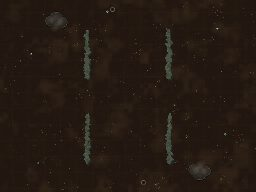
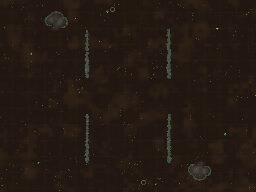
M9 climbs a cliffside: switchback trail, three shelters, wheeling screechers
Mission terrain overlays, plateau rim slabs v2, TDZ crash fix, ridge collision
honesty, darker dead trees, survivor plot-toughness.

diff --git a/game.js b/game.js
@@ -1446,12 +1446,31 @@ const MISSIONS = [
     // emptiness IS the mission's texture).
     title: 'The Silence', act: 'Act II — The Awakening',
     allow: { bld: [], unit: [] },
-    map: 'boneyard', diff: 'normal', noEnemy: true, noBase: true, start: [2304, 3150],
+    map: 'boneyard', diff: 'normal', noEnemy: true, noBase: true, start: [3950, 3120],
     fields: [
       { p: [W * 0.16, H * 0.5], n: 8, a: 2600 },
       { p: [W * 0.84, H * 0.5], n: 8, a: 2600 },
       { p: [W / 2, H / 2], n: 12, a: 3400 },
     ],
+    // THE CLIFFSIDE TRAIL (2026-08-04, Bronson: "a windy, long cliff with a
+    // few extra dinos and some rocks/dead things to navigate around"): the
+    // squad lands in the SE corner and climbs a walled switchback — west
+    // along the bluff foot, then a hairpin northeast to the center gate. The
+    // side gates are ridge-plugged for the mission, so the trail and the gate
+    // are the ONLY way in — and the only way back out with the survivors.
+    terrain: {
+      ridges: [
+        [4560, 3000, 1750, 2950, 55],   // leg-1 north bluff — runs to the map edge
+        [4400, 3400, 3600, 3390, 45],   // stub wall behind the LZ
+        [1750, 3260, 2650, 2500, 55],   // leg-2 south-east wall (hairpin outer)
+        [1150, 2950, 1950, 2280, 55],   // leg-2 north-west wall (hairpin inner)
+        [80, 2150, 1250, 2260, 55],     // west gate plug — full span to the edge
+        [3400, 2100, 4530, 2330, 55],   // east gate plug — full span to the edge
+      ],
+      bones: [[2200, 3150, 60, 0.4], [1900, 2850, 55, -0.7], [2450, 2620, 45, 1.1]],
+      boulders: [[3300, 3120, 30], [2900, 3040, 26], [1550, 3120, 32], [2100, 2560, 28], [1750, 2700, 24]],
+      pits: [[2700, 2980, 34]],
+    },
     brief: [
       ['red', 'Expedition command, Rubicon Actual. Outpost K-7 stopped reporting eleven hours ago. Mid-sentence, mid-word. I have nobody spare to send, and I am… asking.'],
       ['ops', 'A Rubicon outpost going dark is his problem — except K-7 sits square on our northern survey line, and whatever silenced forty-one people is now between us and the fen.'],
@@ -1462,20 +1481,40 @@ const MISSIONS = [
     intro: [
       ['ops', 'K-7 is due north through the wall gates. Comms silence the whole way — assume nothing about why.'],
     ],
+    // PACING REWORK (2026-08-04, Bronson finished v1 in 3 minutes: "absolutely
+    // unacceptable"): the three survivors now hole up in three SEPARATE
+    // shelters across the camp's full width — the sweep is the mission.
+    // Raptor packs prowl the streets (the things that cleared K-7 never left),
+    // screechers pressure the whole run, and collecting the third survivor
+    // raises the flock. Target: 12-15 minutes.
     objectives: [
       { id: 'camp',    text: 'Push north into the silent outpost', type: 'reach', x: 2304, y: 930, r: 300 },
-      { id: 'bunker',  text: 'Reach the command bunker', type: 'reach', x: 2304, y: 300, r: 180, hidden: true, mark: [2304, 300] },
-      { id: 'extract', text: 'Get all three survivors to the extraction point', type: 'groupReach', group: 'survivors', x: 2304, y: 3225, r: 220, count: 3, hidden: true, mark: [2304, 3225] },
+      { id: 'west',    text: 'Search the vehicle bay for survivors', type: 'reach', x: 1704, y: 360, r: 170, hidden: true, mark: [1704, 360] },
+      { id: 'bunker',  text: 'Search the command bunker', type: 'reach', x: 2304, y: 300, r: 170, hidden: true, mark: [2304, 300] },
+      { id: 'east',    text: 'Search the refinery works', type: 'reach', x: 2634, y: 450, r: 170, hidden: true, mark: [2634, 450] },
+      // any three living engineers count — they ARE the only engineers here
+      { id: 'extract', text: 'Get all three survivors back down the trail to the LZ', type: 'groupReach', unit: 'engineer', x: 3950, y: 3180, r: 220, count: 3, hidden: true, mark: [3950, 3180] },
     ],
-    winWhen: ['camp', 'bunker', 'extract'],
+    winWhen: ['camp', 'west', 'bunker', 'east', 'extract'],
     triggers: [
       { when: { time: 0.5 },
         spawn: [
-          { group: 'boone', unit: 'commando', team: 1, n: 1, at: [2304, 3150] },
-          { group: 'squad', unit: 'marine', team: 1, n: 5, at: [2304, 3225] },
-          { group: 'squad', unit: 'rocket', team: 1, n: 2, at: [2205, 3285] },
-          { group: 'squad', unit: 'sniper', team: 1, n: 1, at: [2400, 3285] },
-          { group: 'squad', unit: 'medic',  team: 1, n: 1, at: [2304, 3345] },
+          { group: 'boone', unit: 'commando', team: 1, n: 1, at: [3950, 3060] },
+          { group: 'squad', unit: 'marine', team: 1, n: 6, at: [3950, 3140] },
+          { group: 'squad', unit: 'rocket', team: 1, n: 3, at: [3860, 3200] },
+          { group: 'squad', unit: 'sniper', team: 1, n: 1, at: [4040, 3200] },
+          { group: 'squad', unit: 'medic',  team: 1, n: 2, at: [3950, 3260] },
+          // the trail has tenants: a spitter post at the hairpin, a raptor
+          // pack mid-climb, a picket at the trail mouth into the camp gate
+          { unit: 'spitter', team: 3, n: 2, at: [1500, 3080], order: 'guard' },
+          { unit: 'raptor',  team: 3, n: 2, at: [2080, 2660], order: 'guard' },
+          { unit: 'spitter', team: 3, n: 2, at: [2350, 2300], order: 'guard' },
+          // the things that cleared K-7 are still IN it: raptor packs hold
+          // the streets, spitters squat the flanks — guards, visible, real
+          { unit: 'raptor',  team: 3, n: 3, at: [2154, 525],  order: 'guard' },
+          { unit: 'raptor',  team: 3, n: 2, at: [2504, 675],  order: 'guard' },
+          { unit: 'spitter', team: 3, n: 2, at: [1854, 720],  order: 'guard' },
+          { unit: 'spitter', team: 3, n: 2, at: [2754, 600],  order: 'guard' },
           // K-7, standing and broken — the guns went first, so there are none
           { bld: 'hq',       team: 2, at: [2304, 300],  hpFrac: 0.18 },
           { bld: 'barracks', team: 2, at: [2004, 210],  hpFrac: 0.30 },
@@ -1492,39 +1531,73 @@ const MISSIONS = [
           { egg: [2070, 720] }, { egg: [2475, 570] }, { egg: [2340, 780] },
           { egg: [1950, 330] }, { egg: [2550, 270] },
         ] },
-      { when: { near: [2304, 2250, 420] },
-        say: [['sci', 'No birds. No grazers. The bone flats are never this quiet — everything that could leave already left.']] },
-      { when: { done: ['camp'] }, objective: 'bunker',
+      { when: { near: [3300, 2960, 380] },
+        say: [['sci', 'No birds. No grazers. The bone flats are never this quiet — everything that could leave already left.'],
+              ['cdo', 'Single file on the trail. Eyes up.']] },
+      { when: { done: ['camp'] }, objective: ['west', 'bunker', 'east'],
         say: [['sci', 'There are eggs in the streets, Commander. Laid in the OPEN, between the buildings. Whatever nested here was not afraid of anything.'],
               ['red', 'K-7 had forty-one people on shift, expedition. Keep moving.'],
+              ['ops', 'Thermal shows three sealed shelters still holding heat — the vehicle bay, the command bunker, the refinery works. Sweep all three.'],
               ['cdo', 'Eggs in the street means the street is theirs. Keep walking.']] },
       // first contact — the sky lanes between the walls belong to something new
       { when: { near: [2304, 645, 390] },
         alarm: '⚠ Airborne contacts!',
         spawn: [
-          { unit: 'screecher', team: 3, n: 1, at: [1950, 90], to: [2304, 645] },
+          { unit: 'screecher', team: 3, n: 2, at: [1950, 90], to: [2304, 645] },
           { unit: 'screecher', team: 3, n: 1, at: [2625, 90], to: [2304, 645] },
         ],
         say: [['sci', 'CONTACT — airborne, repeat, AIRBORNE. That is not a spitter. That is not anything we have on file!'],
               ['cdo', 'Rockets up. Watch the lanes.']] },
-      { when: { done: ['bunker'] }, objective: 'extract',
+      // the sky pressures the WHOLE mission, not just the walk home
+      { when: { time: 110, notDone: ['extract'] }, repeat: true, every: 80,
+        spawn: { unit: 'screecher', team: 3, n: 2, at: [2900, 90], to: [2304, 1650] } },
+      // each shelter opens to one survivor — and the sky answers each time
+      { when: { done: ['west'] },
         spawn: [
-          { group: 'survivors', unit: 'engineer', team: 1, n: 3, at: [2304, 390] },
+          { group: 's1', unit: 'engineer', team: 1, n: 1, at: [1704, 420], hpMul: 2 },
+          { unit: 'screecher', team: 3, n: 2, at: [1350, 60], to: [1704, 390] },
         ],
-        say: [['ops', 'Three heartbeats in the command bunker — his engineers welded the door and waited. Good instinct.'],
-              ['red', '…Three. Out of forty-one. Get them home, Commander, and Rubicon will remember it. That is not a small sentence from me.'],
-              ['sci', 'The weld held because the things outside stopped trying after the first night. They were not hungry, Commander. They were clearing ground.']] },
-      { when: { done: ['bunker'] }, delay: 6, alarm: '⚠ Wings inbound from the north!',
-        spawn: { unit: 'screecher', team: 3, n: 3, at: [2304, 60], to: [2304, 525] },
-        say: [['ops', 'They know you have them. Run the gauntlet, Commander — south, and do not stop.']] },
-      { when: { done: ['bunker'], notDone: ['extract'] }, delay: 25, repeat: true, every: 55,
-        spawn: { unit: 'screecher', team: 3, n: 2, at: [2100, 90], to: [2304, 2850] } },
-      { when: { done: ['bunker'], notDone: ['extract'] }, delay: 60, repeat: true, every: 75,
-        spawn: { unit: 'screecher', team: 3, n: 2, at: [3750, 450], to: [2475, 2400] } },
+        say: [['ops', 'One heartbeat in the vehicle bay — dehydrated, alive, and not talking yet. Two shelters left.']] },
+      { when: { done: ['bunker'] },
+        spawn: [
+          { group: 's2', unit: 'engineer', team: 1, n: 1, at: [2304, 360], hpMul: 2 },
+          { unit: 'screecher', team: 3, n: 2, at: [2304, 45], to: [2304, 340] },
+        ],
+        say: [['sci', 'The bunker door was welded from the INSIDE — and the things out here stopped trying after the first night. They were not hungry, Commander. They were clearing ground.']] },
+      { when: { done: ['east'] },
+        spawn: [
+          { group: 's3', unit: 'engineer', team: 1, n: 1, at: [2634, 510], hpMul: 2 },
+          { unit: 'screecher', team: 3, n: 2, at: [2950, 60], to: [2634, 480] },
+        ],
+        say: [['red', 'Refinery crew chief. Good man. That is three of my people breathing because of yours, expedition.']] },
+      // the third rescue raises the FLOCK — and something closes the gate
+      { when: { done: ['west', 'bunker', 'east'] }, objective: 'extract',
+        alarm: '⚠ The flock is rising — get south NOW!',
+        spawn: [
+          { unit: 'screecher', team: 3, n: 3, at: [2000, 45], to: [2304, 700] },
+          { unit: 'screecher', team: 3, n: 3, at: [2650, 45], to: [2304, 900] },
+          { unit: 'raptor',    team: 3, n: 3, at: [2304, 1470], order: 'guard' },
+        ],
+        say: [['red', '…Three. Out of forty-one. Get them home, Commander, and Rubicon will remember it. That is not a small sentence from me.'],
+              ['ops', 'The whole northern sky just lifted off the roosts. They know you have them — south, and do not stop for anything.']] },
+      // the long walk home, contested the whole way, from both flanks
+      { when: { done: ['west', 'bunker', 'east'], notDone: ['extract'] }, delay: 25, repeat: true, every: 50,
+        spawn: { unit: 'screecher', team: 3, n: 2, at: [2100, 90], to: [2400, 2560] } },
+      { when: { done: ['west', 'bunker', 'east'], notDone: ['extract'] }, delay: 45, repeat: true, every: 70,
+        spawn: { unit: 'screecher', team: 3, n: 2, at: [3750, 450], to: [3200, 3000] } },
+      { when: { done: ['west', 'bunker', 'east'], notDone: ['extract'] }, delay: 70, repeat: true, every: 95,
+        spawn: { unit: 'raptor', team: 3, n: 2, at: [1554, 1770], to: [1700, 3050] } },
+      // the LZ itself is contested — clear it and hold for the transport
+      { when: { near: [3400, 2980, 320], done: ['west', 'bunker', 'east'] },
+        alarm: '⚠ Wings over the extraction point!',
+        spawn: { unit: 'screecher', team: 3, n: 4, at: [4300, 2800], to: [3950, 3180] },
+        say: [['ops', 'Wings on the LZ — clear the air and hold for the transport!']] },
       // the squad is small and the survivors are the mission — and Lighthouse
       // does not get left in the silence
-      { when: { groupBelow: ['squad', 2] }, lose: true },
-      { when: { groupBelow: ['survivors', 3] }, lose: true },
+      { when: { groupBelow: ['squad', 3] }, lose: true },
+      { when: { groupBelow: ['s1', 1] }, lose: true },
+      { when: { groupBelow: ['s2', 1] }, lose: true },
+      { when: { groupBelow: ['s3', 1] }, lose: true },
       { when: { groupBelow: ['boone', 1] }, lose: true },
     ],
     outro: [
@@ -2476,10 +2549,20 @@ function placeBase(team, M) {
   return hq;
 }
 
+// TDZ-safe mission read: the cold-load art-repaint path can call paintGround
+// before `let mission` (declared much later in the file) has initialized —
+// a bare reference there killed the WHOLE script once (2026-08-04).
+function missionNow() { try { return mission; } catch (e) { return null; } }
 function setup(mapKey) {
   const M = MAPS[mapKey] || MAPS.basin;
+  // mission terrain OVERLAYS (2026-08-04, for M9's cliffside trail): a mission
+  // may carry `terrain: {ridges, boulders, bones, pits, vents}` that appends
+  // to its map's own — skirmish on the shared map never sees them. Same
+  // pattern as the mission `fields` override, additive instead of replacing.
+  const mt = (missionNow() && missionNow().terrain) || {};
+  const T = (k) => (M[k] || []).concat(mt[k] || []);
   // terrain first, so the ground pre-render includes it
-  for (const rg of (M.ridges || [])) {
+  for (const rg of T('ridges')) {
     const [x1, y1, x2, y2, r] = rg;
     const n = Math.max(1, Math.round(dist(x1, y1, x2, y2) / (r * 1.1)));
     for (let i = 0; i <= n; i++) {
@@ -2493,8 +2576,8 @@ function setup(mapKey) {
   // fire vents (2026-08-04): burning ground — passable, but ground units
   // inside take VENT_DMG per tick. The level-design "soft wall": the shortcut
   // you may take and pay for, vs cliffs/water you simply can't cross.
-  for (const [vx, vy, vr] of (M.vents || [])) vents.push({ x: vx, y: vy, r: vr });
-  for (const [bx, by, br] of (M.boulders || [])) rocks.push({ x: bx, y: by, r: br });
+  for (const [vx, vy, vr] of T('vents')) vents.push({ x: vx, y: vy, r: vr });
+  for (const [bx, by, br] of T('boulders')) rocks.push({ x: bx, y: by, r: br });
   // water channels (2026-07-25, Blackwater Fen onward): chained circle
   // colliders on the ridge machinery — ground units can't cross, flyers
   // ignore rocks so they soar straight over. Gaps between river segments are
@@ -2523,8 +2606,8 @@ function setup(mapKey) {
   // obstacle variety beyond rock walls (playtest 2026-07-24): crystalline
   // spires, buried ribcages, sinkholes — all rocks mechanically, distinct art
   for (const [sx, sy, sr] of (M.spires || [])) rocks.push({ x: sx, y: sy, r: sr, spire: true });
-  for (const [bx, by, br, ba] of (M.bones || [])) rocks.push({ x: bx, y: by, r: br, bone: true, a: ba || 0 });
-  for (const [px, py, pr] of (M.pits || [])) rocks.push({ x: px, y: py, r: pr, pit: true });
+  for (const [bx, by, br, ba] of T('bones')) rocks.push({ x: bx, y: by, r: br, bone: true, a: ba || 0 });
+  for (const [px, py, pr] of T('pits')) rocks.push({ x: px, y: py, r: pr, pit: true });
   // plateaus: raise the interior tiles, then grow the cliff rim as a chain of
   // slab rocks — ramps leave gaps, the only ground route up
   elev.fill(0);
@@ -3489,7 +3572,22 @@ function updateUnit(u) {
       }
       const d = dist(u.x, u.y, t.x, t.y) - (t.r || 0);
       if (d > u.range) moveToward(u, t.x, t.y);
-      else {
+      else if (u.type === 'screecher') {
+        // a bird doesn't hover — it WHEELS (2026-08-04, Bronson): circle the
+        // prey on a banking orbit inside weapon range, spitting on the pass.
+        // Orbit direction is fixed per bird so a wing splits both ways.
+        u.orbitDir = u.orbitDir || (u.id % 2 ? 1 : -1);
+        const cd = Math.max(40, dist(u.x, u.y, t.x, t.y));
+        const oa = Math.atan2(u.y - t.y, u.x - t.x) + u.orbitDir * (u.speed * 1.6 / cd);
+        const orad = u.range * (0.72 + 0.18 * Math.sin(tick * 0.025 + u.id * 1.7));
+        const gx = t.x + Math.cos(oa) * orad, gy = t.y + Math.sin(oa) * orad;
+        const gd = Math.hypot(gx - u.x, gy - u.y) || 1;
+        u.faceA = Math.atan2(gy - u.y, gx - u.x);
+        u.x += (gx - u.x) / gd * Math.min(u.speed, gd);
+        u.y += (gy - u.y) / gd * Math.min(u.speed, gd);
+        u.moving = true; u.walkT += u.speed;   // keeps the flap cycle beating
+        if (u.cool <= 0) fire(u, t);
+      } else {
         u.faceA = Math.atan2(t.y - u.y, t.x - u.x);
         // artillery has a dead zone — anything that closes inside minRange is safe from it
         const min = UNIT[u.type].minRange;
@@ -3830,7 +3928,7 @@ function separation() {
       // makes blowing a dam under a crossing column lethal instead of a shove.
       if (rk.water && aFoot && dist2(a.x, a.y, rk.x, rk.y) < Math.max(0, rk.r - a.r) ** 2) continue;
       if (rk.bridged && aFoot) continue;   // dam walkway — infantry and dinos cross
-      if (a.ghostT > 0 && !rk.cliff && !rk.water) continue;   // ghosts slip pinch rocks — never cliffs OR open water
+      if (a.ghostT > 0 && !rk.cliff && !rk.water && !rk.ridge) continue;   // ghosts slip pinch rocks — never cliffs, water, or ridge walls
       const dx = a.x - rk.x, dy = a.y - rk.y;
       const min = rk.r + a.r;
       if (Math.abs(dx) > min || Math.abs(dy) > min) continue;
@@ -5215,18 +5313,22 @@ function paintRidges(g, M) {
       const t = Math.min(1, d / L);
       const tH = highAtEnd ? t : 1 - t;
       const hFac = 0.35 + tH * tH * 0.95;               // quadratic climb — the head looms
-      const off = (hn(seed, i) - 0.5) * r * (0.45 + 0.6 * hn(seed + 1, i));
+      // visuals stay INSIDE the collision envelope (2026-08-04, Bronson's
+      // screenshot: units "standing on" painted rock that had no collider
+      // under it) — scatter and slab reach are capped so the painted wall
+      // never outruns the physical one
+      const off = (hn(seed, i) - 0.5) * r * 0.35;
       const cxx = x1 + (x2 - x1) * t + nx * off;
       const cyy = y1 + (y2 - y1) * t + ny * off;
-      const sr = r * (0.5 + hn(seed + 2, i) * 0.5 + tH * 0.45);
+      const sr = r * (0.5 + hn(seed + 2, i) * 0.32 + tH * 0.25);
       const rot = hn(seed + 4, i) * Math.PI * 2;
       const vn = 5 + Math.floor(hn(seed + 5, i) * 4);   // 5-8 verts: blocky to shard
       const spike = Math.floor(hn(seed + 7, i) * vn);   // one vertex juts
       const verts = [];
       for (let k = 0; k < vn; k++) {
         const va = rot + (k / vn) * Math.PI * 2 + (hn(seed + 6, i * 13 + k) - 0.5) * 0.5;
-        let vr = sr * (0.58 + hn(seed + 8, i * 17 + k) * 0.55);
-        if (k === spike) vr *= 1.45;
+        let vr = sr * (0.58 + hn(seed + 8, i * 17 + k) * 0.5);
+        if (k === spike) vr *= 1.22;
         verts.push([cxx + Math.cos(va) * vr, cyy + Math.sin(va) * vr]);
       }
       slabs.push({ cx: cxx, cy: cyy, sr, verts, i, hFac });
@@ -5245,14 +5347,15 @@ function paintRidges(g, M) {
       poly(s.verts, 6 + 10 * s.hFac, 9 + 15 * s.hFac); g.fill();
     }
     // pass 2: the cliff FACES — extrusion depth follows the height gradient,
-    // so the low tail hugs the ground and the head stands off it
+    // so the low tail hugs the ground and the head stands off it (depths
+    // halved 2026-08-04: a face reaching far downhill read as standable top)
     for (const s of slabs) {
       g.fillStyle = '#1c211b';
-      poly(s.verts, s.sr * (0.16 + 0.34 * s.hFac), s.sr * (0.22 + 0.46 * s.hFac)); g.fill();
+      poly(s.verts, s.sr * (0.10 + 0.20 * s.hFac), s.sr * (0.13 + 0.27 * s.hFac)); g.fill();
     }
     for (const s of slabs) {
       g.fillStyle = '#272d26';
-      poly(s.verts, s.sr * (0.09 + 0.17 * s.hFac), s.sr * (0.12 + 0.23 * s.hFac)); g.fill();
+      poly(s.verts, s.sr * (0.05 + 0.10 * s.hFac), s.sr * (0.07 + 0.14 * s.hFac)); g.fill();
     }
     // pass 3: lit tops, split into two facets along a random chord
     for (const s of slabs) {
@@ -5369,22 +5472,43 @@ function paintRock(g, rk, flo) {
   if (rk.ridge) return;   // ridge chains paint as one continuous wall in paintRidges
   if (rk.tree) return paintTree(g, rk, flo || {});
   if (rk.cliff) {
-    // scarp band: round-capped tangential strokes so the chained slabs read
-    // as one eroded hillside edge, not a wall of black bricks (2026-07-24)
+    // rim slab, v2 (2026-08-04, same night as ridge v4 — "I thought these
+    // shitty things were gone?"): each cliff rock is an angular faceted slab
+    // with its face extruded DOWNHILL (+a is the outward normal), same rock
+    // family as paintRidges so every wall in the game speaks one language.
+    const hnr = (i) => { const v = Math.sin(rk.x * 12.9 + rk.y * 78.2 + i * 37.7) * 43758.5453; return v - Math.floor(v); };
     g.save();
     g.translate(rk.x, rk.y);
-    g.rotate(rk.a || 0);   // +x points away from the plateau
-    g.lineCap = 'round';
-    const t = rk.r * 1.22;   // tangential half-length — keeps the chain closed
-    g.strokeStyle = 'rgba(0,0,0,0.30)';   // shadow falling downhill
-    g.lineWidth = rk.r * 0.95;
-    g.beginPath(); g.moveTo(3, -t); g.lineTo(3, t); g.stroke();
-    g.strokeStyle = '#2c322b';            // scarp face
-    g.lineWidth = rk.r * 0.8;
-    g.beginPath(); g.moveTo(-rk.r * 0.2, -t); g.lineTo(-rk.r * 0.2, t); g.stroke();
-    g.strokeStyle = '#454d45';            // sunlit lip on the high side
-    g.lineWidth = rk.r * 0.24;
-    g.beginPath(); g.moveTo(-rk.r * 0.5, -t * 0.9); g.lineTo(-rk.r * 0.5, t * 0.9); g.stroke();
+    g.rotate(rk.a || 0);   // +x points away from the plateau (downhill)
+    const t = rk.r * 1.25, w = rk.r * (0.8 + hnr(1) * 0.3);
+    // angular slab outline: elongated along the rim tangent, jittered
+    const verts = [];
+    const vn = 6;
+    for (let k = 0; k < vn; k++) {
+      const va = (k / vn) * Math.PI * 2 + (hnr(k + 2) - 0.5) * 0.5;
+      const ex = Math.cos(va), ey = Math.sin(va);
+      verts.push([ex * w * (0.75 + hnr(k + 8) * 0.45), ey * t * (0.8 + hnr(k + 14) * 0.35)]);
+    }
+    const poly = (ox) => {
+      g.beginPath();
+      g.moveTo(verts[0][0] + ox, verts[0][1]);
+      for (const [px, py] of verts) g.lineTo(px + ox, py);
+      g.closePath();
+    };
+    g.fillStyle = 'rgba(0,0,0,0.30)';   // shadow falling downhill
+    poly(rk.r * 0.55); g.fill();
+    g.fillStyle = '#1c211b';            // deep face
+    poly(rk.r * 0.34); g.fill();
+    g.fillStyle = '#272d26';            // near face
+    poly(rk.r * 0.16); g.fill();
+    g.fillStyle = hnr(20) > 0.5 ? '#3e463a' : '#454d41';   // lit top
+    poly(-rk.r * 0.08); g.fill();
+    // uphill rim light
+    g.strokeStyle = 'rgba(130,142,118,0.45)';
+    g.lineWidth = 1.8;
+    g.beginPath();
+    g.moveTo(-w * 0.7, -t * 0.55); g.lineTo(-w * 0.85, 0); g.lineTo(-w * 0.65, t * 0.6);
+    g.stroke();
     g.restore();
     return;
   }
@@ -5754,8 +5878,14 @@ function paintGround(M) {
       hillBlob(px, py, pr * 0.8, 0.09); g.stroke();
     }
   }
-  paintRidges(g, M);
-  paintVents(g, M);
+  // mission terrain overlays paint too (colliders without paint = invisible walls)
+  const mtp = (missionNow() && missionNow().terrain) || {};
+  const MM = (mtp.ridges || mtp.vents)
+    ? Object.assign({}, M, { ridges: ((M && M.ridges) || []).concat(mtp.ridges || []),
+                             vents: ((M && M.vents) || []).concat(mtp.vents || []) })
+    : M;
+  paintRidges(g, MM);
+  paintVents(g, MM);
   for (const rk of rocks) paintRock(g, rk, flo);
 }
 paintGround();   // pre-menu backdrop; setup() repaints with the map's terrain
@@ -8252,6 +8382,7 @@ function doSpawn(sp) {
     else if (sp.to) u.order = { type: isCombat(u) ? 'attackmove' : 'move', x: sp.to[0], y: sp.to[1] };
     if (sp.specimen) u.specimen = true;   // protected: player weapons won't track it
     if (sp.invuln) u.invuln = true;       // scripted set-piece (M13's Broodmother walk): the story owns it
+    if (sp.hpMul) { u.maxHp = Math.round(u.maxHp * sp.hpMul); u.hp = u.maxHp; }   // story-tough (M9's survivors)
     if (ids) ids.push(u.id);
   }
 }

diff --git a/CLAUDE.md b/CLAUDE.md
@@ -35,6 +35,7 @@ A tiny browser RTS in the spirit of Command & Conquer / StarCraft 2, built for a
 
 ## Game snapshot (as of 2026-07-09)
 
+- **M9 CLIFFSIDE REWORK + mission terrain overlays + a night of Bronson art direction (2026-08-04 late).** (1) **M9 "The Silence" repaced 3min→target 12-15** (Bronson: "absolutely unacceptable"): squad lands SE corner and climbs a WALLED SWITCHBACK TRAIL (west along the bluff foot, hairpin NE to the center gate — side gates ridge-plugged mission-only), three survivors in three SEPARATE shelters across the camp width (vehicle bay / command bunker / refinery works — reach objectives; each rescue spawns its `s1/s2/s3` engineer hpMul 2 = 120hp + a screecher response), third rescue raises the FLOCK (6 wings + a raptor pack closing the gate behind you) then a two-flank contested walk home + LZ wings. Trail has tenants (spitter/raptor posts) + bones/boulders/pits to slalom; camp has raptor street packs. Squad grew to 13 (6m/3r/1s/2med + Boone). Lose: squad<3, boone, ANY survivor dies (three groupBelow rules — null-safe pre-spawn). (2) **Mission terrain overlays**: mission `terrain: {ridges,boulders,bones,pits,vents}` appends to the map's own in setup AND paintGround (colliders without paint = invisible walls) — skirmish on the shared map never sees them. (3) **GOTCHA that killed the whole script: TDZ.** paintGround's overlay code read `mission` (a `let` declared thousands of lines later); the cold-load art-repaint path calls paintGround before that let initializes → "Cannot access 'mission' before initialization" at top level = game.js DIES silently (menu renders, CC undefined, `typeof started` throws). Fix: `missionNow()` try/catch reader. Debug pattern that found it: errtest.html harness installing a window error listener BEFORE game.js (console showed nothing). (4) **Screechers WHEEL now**: attack case orbits the prey (fixed per-bird direction, banking radius 0.72-0.9×range, flap cycle driven) instead of hovering. (5) **Ridge/rim polish from live art direction**: ridge slabs capped inside the collision envelope + face extrusion halved (units read as "standing on" painted rock that had no collider), ghosts no longer slip ridge rocks (cliff rule extended), plateau cliff rims rebuilt as angular faceted slabs (rim v2 — same rock family as ridges), dead-tree sprite darkened 0.53 multiply (white starburst on ash, same fix as the July sinkhole), river CONFLUENCES don't flare (an endpoint landing in another channel suppresses the delta-mouth flare — two overlapping flares ballooned at junctions). Trail-enforcement verified (hairpin+leg2 ridden, both gate plugs hold — round 2: plugs must span TO THE MAP EDGE), full M9 chain + win + survivor-death loses, zero errors. PACING STILL NEEDS BRONSON'S HANDS. Climbable-ridge-with-2-slot idea PARKED (real mechanic: occupancy reservation + slope side).
 - **Ridges are WALLS now, fire is a level lever, and Exodus Road is the first corridor map (2026-08-04 night, Bronson: "actual elevation, not little disks" + "push the player specific directions").** (1) **paintRidges**: ridge segments paint as ONE continuous mesa wall each (hash-noise jagged edges, faceted rock top slabs, clustered cracks, talus boulders at the shadow foot, downhill drop shadow) — ridge-tagged rocks are skipped by paintRock. V1 (smooth sine band + ruler-tick strata) shipped for ~10 minutes and Bronson's live "wtf is this?" was correct — it read as a slug/highway; the v2 rewrite is the keeper pattern: jagged hash noise over smooth sine, faceted patches over continuous bands. (2) **Fire vents** (`MAPS.vents: [[x,y,r]]`): passable burning ground — ground units inside take VENT_DMG 0.09/tick (flyers immune), no placement on them (canPlaceBuilding + aiSpotFree), baked scorch + glowing fissures in paintGround, pulsing glow + drifting embers per-frame in drawVents, ember-orange minimap dots. The level-design SOFT wall: shortcuts you pay for in blood. (3) **MAPS.exodus "Exodus Road"** (roster #12, M12's home): night-swamp palette, a Z-shaped causeway artery SW→NE walled by water channels + ridge bluffs, two elbow chokes (elbow-2 holds the mega field + nest), two pocket fields off the road, a 3-vent flare line across the middle leg (thread the ~40px seams, hug the east lane, or burn), the exodus road polyline running the full artery. **CORRIDOR-SEALING METHOD (the lesson): author walls, then run the enforcement test — a corner-to-corner raider whose trail must pass BOTH elbows and no cut regions.** Took 3 rounds: first run cut the open west-middle (pocket-A north unsealed), second still threaded a ~200px seam between the seal channel and leg-2's west wall (fix: overlap them; near-touching endpoints always leak). Verified: corridor enforced, both pockets reachable, vent burn 10.8hp/2s on marines + 0 on flyers, AI base functions on the map, 7k soak clean, zero console errors. Thumbnails ×12 regenerated. 144×108 tiles / 4608×3456 px (2026-08-04, Bronson: "maps need to increase by 50%" — lands almost exactly on Brood War's standard 128×128 scale and serves the 20–30-min match goal).** Third size in the project's history (64×48 → 96×72 → 144×108). Two-part migration, NEVER split: (1) MAP_W/MAP_H constants — all MAPS layouts are W/H-relative and rescaled free; (2) **every absolute px coordinate in MISSIONS ×1.5** via scripted regex over the block (patterns: `at/to/mark/focus/start/egg: [N,N]`, `near: [N,N,N]` incl. radius — route-corridor scale, `x: N, y: N` objective pairs, mission `patches` and M5's absolute `fields` p:). ~203 coordinate groups. Radii/leashes/sights/standoffs are GAMEPLAY-scale and deliberately unscaled; objective r values unscaled (targets sit at circle centers). A* guard 40000→90000 (2.25× the cells). Verified same night: 11/11 base-to-base crossings (tanks detour fen/hwm/mine water+terraces, zero water contact), dam placeable on the rescaled hwm channel (10/11 probed rocks; GOTCHA: canPlaceBuilding signature is (type,wx,wy) — no team arg — and it enforces tech + cost + scouted corners, so probe with devMode ON + crystals granted + vision stamped), M1–M3 soaks, M4 full build-chain + surges, M5/M7/M8/M9 full chains (M7 twin dens land at scaled [4140,1770]/[1995,1728] both dry; M9 beats at y 2250/930/645/315 + LZ [2304,3225]), M6 silo latch + expiry lose, basin-hard 9k + fen-hard 7k soaks (0 drowned, no NaN), zero console errors. Thumbnails regenerated. Base-to-base now 3056–5173px (was ~2000–3450). PACING NOT YET PLAYTESTED — economy round-trips and wave travel times all lengthened; Bronson's next skirmish run is the acceptance test, and wave cadence/patch sizes are the knobs if it drags. — 4th cast member + hero commando (2026-08-04, Bronson's ask: male, quiet-leader callsign; a woman operator is banked for the commando DLC).** CAST `cdo` (MSGT. BOONE, moss-green, monogram B; portrait slot assets/portraits/cdo.png — prompt + voice brief appended to PORTRAITS.md). **THE CHARACTER RULE: he barely speaks — one short sentence at most, flat calm, and only when it matters** (Vega's intro line carries the thesis: "He does not say much. He does not need to."). `UNIT.commando` hero (hp 160, dmg 16, sight 280, speed 2.0, cost/supply 0, NOT in any trains list — mission-granted; the DLC gets the buildable version). Art: drawUnitSprite aliases commando→marine art (walk frames included) until unit_commando slots land — his own art wins the moment it exists; drawUnitDecor gives him upright gold master-sergeant chevrons meanwhile. Leads BOTH commando missions: M5 + M9 spawn him in group 'boone' with a `groupBelow ['boone',1]` lose trigger each (hero dies = mission fails, C&C commando rule). M9 gave him the ground voice (camp-edge "the street is theirs", first-contact "Rockets up. Watch the lanes.", outro "It let us leave."); M5 got the brief intro + LZ line ("Light's on. Everybody home."). Verified: both missions spawn him, M9 full chain with him alive, hero-death loses both, no commando leak into skirmish, zero console errors (the 404 burst on mission load is his unvoiced `cdo_*` voice probes — designed fallback). NOTE: regenerate voice-script.tsv before Bronson's next voice batch (new speaker + M9 lines shift per-speaker row numbering); Boone needs an ElevenLabs voice pick (brief in PORTRAITS.md).
 - **Support units ignore attack commands + M5 secondary cut (2026-08-01, Bronson playtest round 2 same day).** (1) **`isSupport(u)` (medic/engineer, next to isCombat)** — keyed by TYPE, not dmg, because the engineer carries a token `dmg: 2` melee poke that slipped it past every `dmg <= 0` guard (medics held, engineers charged). Three gaps closed: commandMove now routes support through 'attackmove' on A-move (plain 'move' beelined them THROUGH the firing line to the destination — the Jul 29 standoff branch was unreachable from the A-move command path), commandAttack skips support entirely (right-clicked enemies used to send engineers on a 22px-poke chase), and the attackmove standoff branch takes `dmg <= 0 || isSupport` so engineers hold at SUPPORT_STANDOFF (190) behind the escorts. Explicit right-click repair (commandRepair) and idle auto-repair/heal untouched. Verified: A-move past enemies = both hold ~380px behind the marines (medic auto-heals from there), squad right-click = marines attack while support ignores it. (2) **M5's optional fuel-dump objective CUT same day it shipped** (Bronson: "kill the secondary mission" — the difficulty pass alone landed where he wanted). Dump building, cache objective, valve triggers, and Lin's two dump lines all removed; the destroy pre-latch pass STAYS (generic, protects the M6 fix). Exfil pursuit is one fixed cadence now. East-bank picket guards kept. **Round 3 (same day, Bronson: "a bit less difficult"):** relay screens trimmed 3→2 marines each (16 Rubicon troops, from 22 — snipers/rockets kept, they're the posts' identity), patrol 80s/n3→95s/n2, post-relay sweep 70s/n3→85s/n2, LZ platoon 4→3 marines + sniper, pursuit marines 50s→60s + raiders 70s→85s. The difficulty ladder that landed: 11 troops = <4-min speedrun, 22 = too hard, 16 + softer cadences = the shipping shape (pending his verdict). Full M5 chain + skirmish re-verified each round, zero console errors.
 - **M5 difficulty pass + objective UX + won-is-won (2026-08-01, Bronson speedran Ghost Survey in <4 min and hung on an unmarked relay).** (1) **groupDead objectives now show a kill count** ("3/4" in the HUD via objProgress reading the group's fixed roster) and **their beacons track SURVIVORS** — `objMarks(o)` returns living group members' positions for groupDead objectives with a mark (world beacons + minimap rings both use it); the authored `mark` is only the pre-spawn fallback, and no-mark objectives stay unmarked (M1's reprisal must not leak positions). Root cause of the playtest hang: the only beacon pulsed forever over the FIRST relay's rubble while the 4th sat in fog. (2) **M5 rebalance**: every relay properly garrisoned (marine screens + a sniper or rocket each, 22 Rubicon troops total, was 11), wild spitter guard packs at the center field + SE bank (guards, NOT nests — the no-nests-on-the-causeway rule stands), patrol/sweep cadences tightened, and Krauss's promised platoon actually LANDS on the east LZ (4 marines + sniper) when the lab falls. (3) **Optional objective machinery proven**: 'cache' (torch the fuel dump, `destroy` type, NOT in winWhen) gates the exfil pursuit between a heavy cadence (45s/60s waves) and a light one (95s) via done/notDone trigger pairs — the optional IS the valve. (4) **destroy pre-latch**: objMet now runs a seen-latch pass for ALL undone destroy objectives each missionUpdate tick, so a target razed BEFORE its objective reveals still counts (the M6 tick-0 false-complete fix is preserved — a target that never existed never latches). (5) **Won is won**: once `ms.outroDone` is set (all winWhen objectives done), NO defeat path may fire — trigger `lose`, deadline `onExpire:'lose'`, and checkEnd's HQ-loss/noBase-last-unit rules all guard on it. Found live: M5's exfil latched, outro playing, LZ garrison gunned down a straggler → MISSION FAILED mid-victory-speech. Verified: full M5 chain incl. total squad wipe during the outro still completing, cache valve both intensities, M6 deadline expiry still losing + silo not auto-done, M1 + skirmish soaks clean. GOTCHA for tests: CC.startMission leaves the help modal open (`paused` true) and syncVoicePause freezes voiced clips — a voiced outro line then NEVER releases and the win drain guard blocks forever; close the help modal before stepping to a win. Map size is engine-global (96×72 tiles) — "make the map bigger" per-mission is not a lever; route density is.
